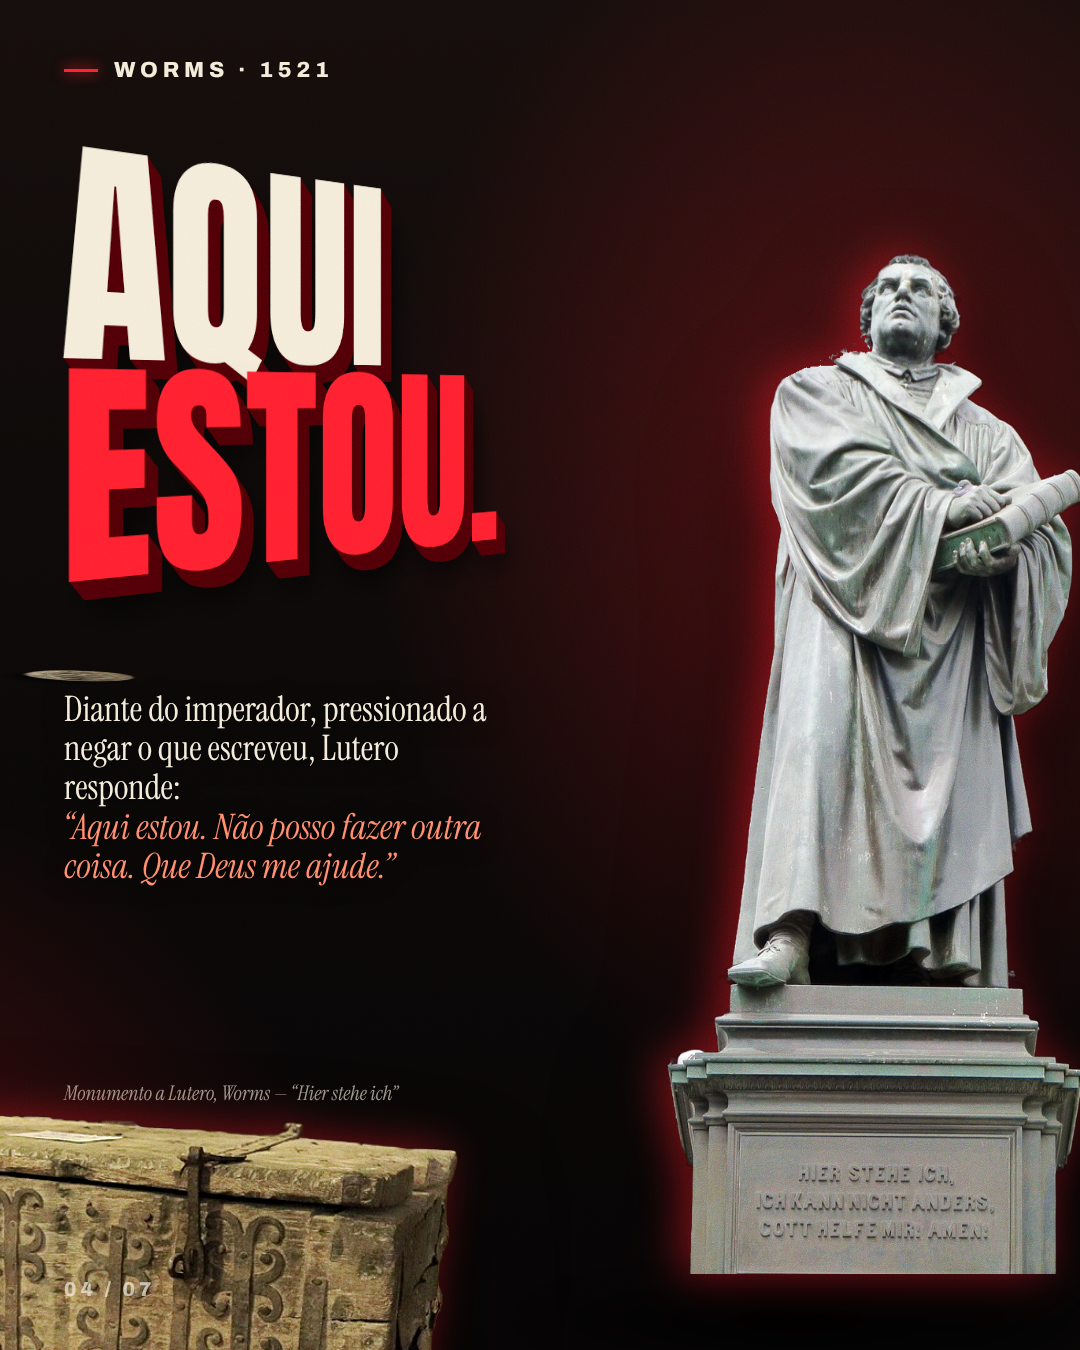
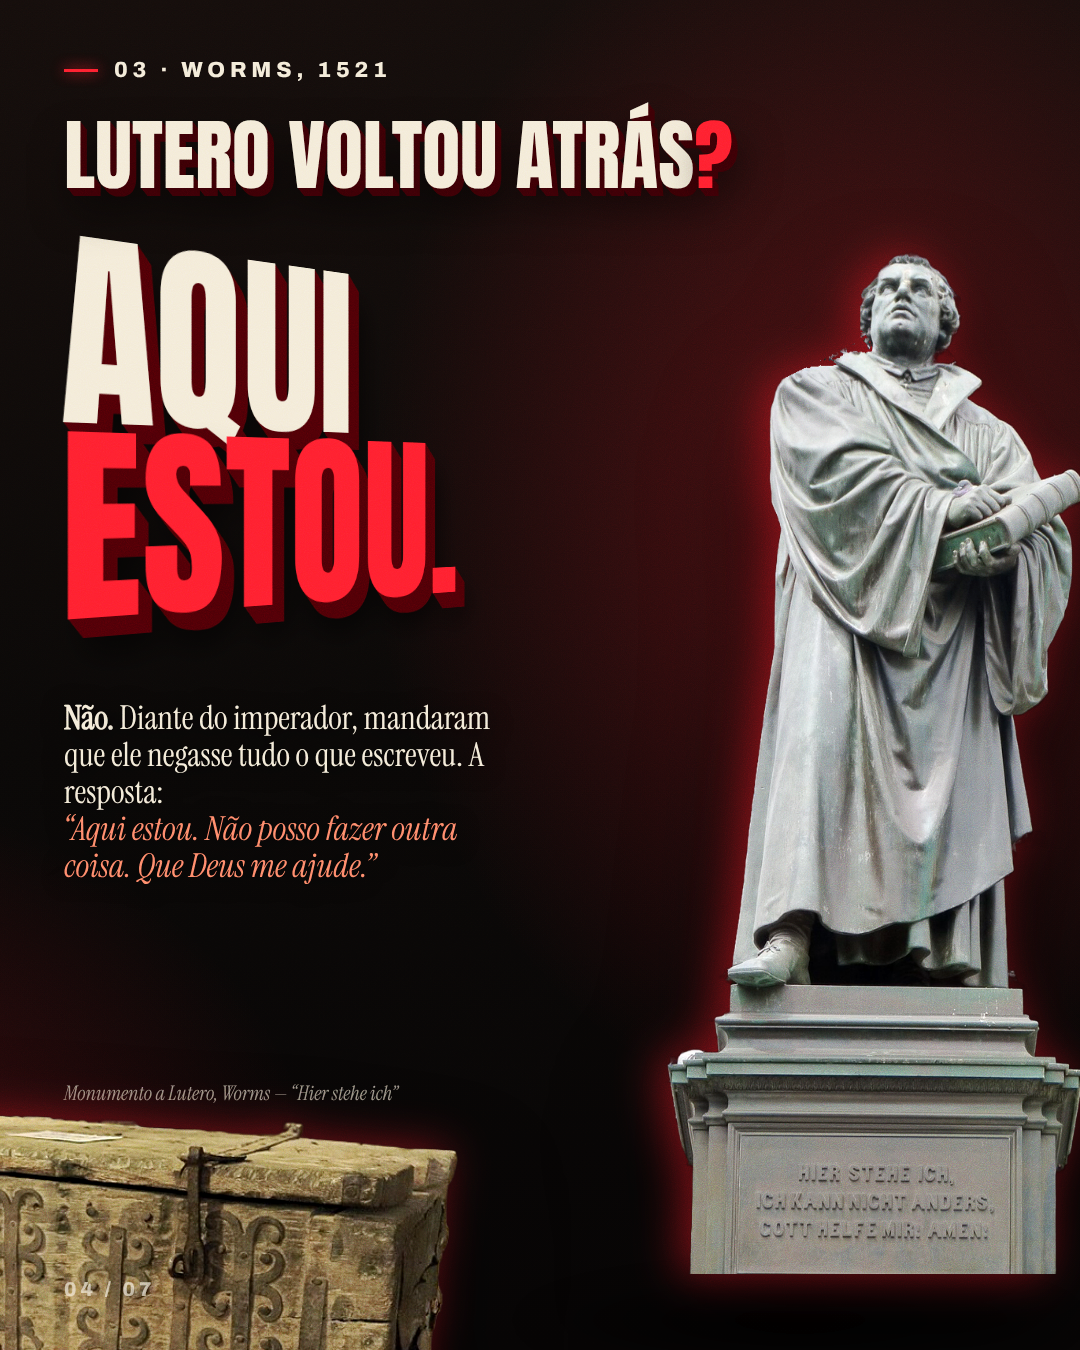
Carrossel da Reforma em formato de perguntas (O que foi? Por que aconteceu? ...)
Claude-Session: https://claude.ai/code/session_01SqBgzc59mWW4zSof96dTKN

Changed region(s): [[0.0306, 0.0311, 0.7028, 0.6533]]

diff --git a/carrossel-reforma/carrossel.html b/carrossel-reforma/carrossel.html
@@ -60,28 +60,28 @@ body{width:7560px;height:1350px;overflow:hidden}
 <img src="assets/logo.png" class="abs" style="left:930px;top:34px;width:104px;z-index:60;filter:drop-shadow(0 0 22px rgba(255,31,45,.7))">
 <div class="abs" style="left:0;top:140px;width:1080px;height:900px;perspective:1000px;perspective-origin:30% 30%;z-index:10">
   <div class="pres" style="position:absolute;left:40px;top:40px;transform:rotateY(24deg) rotateX(6deg);transform-origin:0 50%">
-    <div class="goth x3d" data-d="10" data-c="#5c0009" style="font-size:150px;line-height:.8;margin-left:12px">A</div>
-    <div class="anton x3d" data-d="26" data-c="#4d0007" style="font-size:330px;color:var(--red);line-height:.86">Refor</div>
-    <div class="anton x3d" data-d="26" data-c="#4d0007" style="font-size:330px;color:var(--red);line-height:.86">ma.</div>
+    <div class="anton x3d" data-d="10" data-c="#3a0006" style="font-size:118px;line-height:.95;margin-left:8px">O que foi a</div>
+    <div class="anton x3d" data-d="26" data-c="#4d0007" style="font-size:320px;color:var(--red);line-height:.86">Refor</div>
+    <div class="anton x3d" data-d="26" data-c="#4d0007" style="font-size:320px;color:var(--red);line-height:.86">ma?</div>
   </div>
 </div>
 <!-- Lutero (Cranach, 1528) atravessando 1→2 -->
 <div class="contact" style="left:520px;top:1250px;width:700px;height:120px;z-index:19"></div>
 <img src="assets/luther.png" class="photo lit" style="left:450px;top:440px;width:820px;z-index:20;-webkit-mask-image:linear-gradient(180deg,#000 78%,transparent 99%)">
-<div class="sticker" style="left:400px;top:170px;background:var(--paper);color:var(--ink);transform:rotate(6deg);font-size:58px;line-height:.9;text-align:center;z-index:66">509<br><span style="font-size:26px">anos</span></div>
+<div class="sticker" style="left:820px;top:160px;background:var(--paper);color:var(--ink);transform:rotate(6deg);font-size:58px;line-height:.9;text-align:center;z-index:66">509<br><span style="font-size:26px">anos</span></div>
 <div class="abs serif shadowtxt" style="left:64px;top:1010px;width:520px;font-size:44px;line-height:1.04;font-style:italic;z-index:30">
-  31 de outubro de 1517. Um monge, uma porta — e o mundo nunca mais foi o mesmo.</div>
+  509 anos depois, entenda em poucos slides o movimento que mudou a igreja — e o mundo.</div>
 <div class="sticker" style="left:64px;top:1236px;background:var(--red);color:#120303;font-size:30px;padding:12px 22px;border-radius:999px;z-index:66">Arrasta →</div>
 
 <!-- ================= 2 · WITTENBERG ================= -->
-<div class="lbl" style="left:1290px">Wittenberg · 1517</div>
+<div class="lbl" style="left:1290px">01 · Wittenberg, 1517</div>
 <div class="abs" style="left:1290px;top:130px;z-index:30">
-  <div class="anton" style="font-size:130px">Um monge.</div>
-  <div class="anton coral" style="font-size:130px">Uma porta.</div>
-  <div class="anton red" style="font-size:130px">95 teses.</div>
+  <div class="anton x3d" data-d="10" data-c="#3a0006" style="font-size:160px;line-height:.92">O que</div>
+  <div class="anton x3d" data-d="10" data-c="#3a0006" style="font-size:160px;line-height:.92">foi<span class="red">?</span></div>
+  <div class="anton coral" style="font-size:50px;margin-top:22px;line-height:1.05">Um monge. Uma porta.<br><span class="red">95 teses.</span></div>
 </div>
-<div class="abs serif shadowtxt" style="left:1290px;top:560px;width:430px;font-size:36px;line-height:1.12;z-index:30">
-  Martinho Lutero prega na porta da Igreja do Castelo suas <i>95 teses</i>, chamando a igreja a voltar para a Palavra.</div>
+<div class="abs serif shadowtxt" style="left:1290px;top:610px;width:430px;font-size:33px;line-height:1.13;z-index:30">
+  Um movimento cristão do século XVI que chamou a igreja <b class="coral">de volta para a Bíblia</b>. Começou em <b>31 de outubro de 1517</b>, quando o monge Martinho Lutero pregou 95 teses na porta da igreja de Wittenberg, na Alemanha.</div>
 <!-- a porta real (hoje em bronze, com as teses gravadas) atravessando 2→3 -->
 <div class="abs" style="left:1700px;top:330px;width:1000px;height:1100px;perspective:1500px;perspective-origin:0% 40%;z-index:22">
   <div class="contact" style="left:60px;top:930px;width:860px;height:110px"></div>
@@ -92,14 +92,14 @@ body{width:7560px;height:1350px;overflow:hidden}
 <div class="tape p" style="left:860px;top:1240px;width:470px;transform:rotate(-4deg)"><span id="tp1"></span></div>
 
 <!-- ================= 3 · INDULGÊNCIAS ================= -->
-<div class="lbl" style="left:2640px">O problema</div>
+<div class="lbl" style="left:2640px">02 · O estopim</div>
 <div class="abs" style="left:2640px;top:130px;width:560px;z-index:30">
-  <div class="anton" style="font-size:118px">Perdão</div>
-  <div class="anton" style="font-size:118px">à <span class="red">venda</span>?</div>
+  <div class="anton x3d" data-d="10" data-c="#3a0006" style="font-size:112px">Por que</div>
+  <div class="anton x3d" data-d="10" data-c="#3a0006" style="font-size:112px">aconteceu<span class="red">?</span></div>
 </div>
-<div class="abs serif shadowtxt" style="left:2640px;top:380px;width:540px;font-size:33px;line-height:1.12;z-index:30">
-  Vendiam-se <b class="coral">indulgências</b>: papéis que prometiam aliviar a pena dos pecados em troca de dinheiro.</div>
-<div class="abs" style="left:2640px;top:540px;width:540px;z-index:30;border-left:8px solid var(--red);padding:8px 0 8px 26px">
+<div class="abs serif shadowtxt" style="left:2640px;top:375px;width:540px;font-size:31px;line-height:1.12;z-index:30">
+  Porque se vendia o perdão. As <b class="coral">indulgências</b> eram papéis que prometiam aliviar a pena dos pecados em troca de dinheiro.</div>
+<div class="abs" style="left:2640px;top:555px;width:540px;z-index:30;border-left:8px solid var(--red);padding:8px 0 8px 26px">
   <div class="serif shadowtxt" style="font-size:38px;font-style:italic;line-height:1.06">“Assim que a moeda no cofre tilinta, a alma do purgatório salta.”</div>
   <div style="font-size:16px;font-weight:800;letter-spacing:.18em;margin-top:12px;color:var(--coral);text-transform:uppercase">Slogan atribuído a Johann Tetzel</div>
 </div>
@@ -108,42 +108,43 @@ body{width:7560px;height:1350px;overflow:hidden}
   <img src="assets/coin2.png" class="photo" style="left:120px;top:150px;width:240px;transform:rotateX(58deg) rotateZ(-30deg);filter:brightness(1.05) sepia(.25) drop-shadow(0 30px 20px rgba(0,0,0,.7))">
   <img src="assets/coin1.png" class="photo" style="left:350px;top:60px;width:200px;transform:rotateY(62deg) rotateZ(12deg);filter:brightness(1.05) sepia(.25) blur(.6px) drop-shadow(0 30px 20px rgba(0,0,0,.7))">
   <img src="assets/coin2.png" class="photo" style="left:420px;top:250px;width:200px;transform:rotateX(-40deg) rotateY(30deg);filter:brightness(1.1) sepia(.25) drop-shadow(0 30px 20px rgba(0,0,0,.7))">
-  <img src="assets/coin1.png" class="photo" style="left:640px;top:-20px;width:110px;transform:rotateX(70deg) rotateZ(50deg);filter:sepia(.25) blur(1.4px) drop-shadow(0 20px 14px rgba(0,0,0,.7))">
+  <img src="assets/coin1.png" class="photo" style="left:500px;top:-10px;width:100px;transform:rotateX(70deg) rotateZ(50deg);filter:sepia(.25) blur(1.4px) drop-shadow(0 20px 14px rgba(0,0,0,.7))">
 </div>
 <div class="contact" style="left:2560px;top:1300px;width:1200px;height:110px;z-index:31"></div>
 <img src="assets/tetzel.png" class="photo lit" style="left:2480px;top:800px;width:1220px;z-index:32">
 <div class="pg" style="left:2640px;bottom:auto;top:1290px;color:#fff;z-index:40">03 / 07</div>
 
 <!-- ================= 4 · WORMS ================= -->
-<div class="lbl" style="left:3304px">Worms · 1521</div>
-<div class="abs" style="left:3240px;top:120px;width:900px;height:560px;perspective:900px;perspective-origin:20% 50%;z-index:20">
+<div class="lbl" style="left:3304px">03 · Worms, 1521</div>
+<div class="abs anton x3d" data-d="8" data-c="#3a0006" style="left:3304px;top:118px;font-size:78px;z-index:30">Lutero voltou atrás<span class="red">?</span></div>
+<div class="abs" style="left:3240px;top:210px;width:900px;height:560px;perspective:900px;perspective-origin:20% 50%;z-index:20">
   <div class="pres" style="position:absolute;left:60px;top:20px;transform:rotateY(28deg);transform-origin:0 50%">
-    <div class="anton x3d" data-d="20" data-c="#4d0007" style="font-size:250px;line-height:.9">Aqui</div>
-    <div class="anton x3d red" data-d="20" data-c="#4d0007" style="font-size:250px;line-height:.9">estou.</div>
+    <div class="anton x3d" data-d="20" data-c="#4d0007" style="font-size:220px;line-height:.9">Aqui</div>
+    <div class="anton x3d red" data-d="20" data-c="#4d0007" style="font-size:220px;line-height:.9">estou.</div>
   </div>
 </div>
 <!-- estátua real de Lutero em Worms, à frente do texto -->
 <div class="contact" style="left:3760px;top:1270px;width:560px;height:100px;z-index:24"></div>
 <img src="assets/worms.png" class="photo lit" style="left:3720px;top:250px;width:800px;z-index:25">
-<div class="abs serif shadowtxt" style="left:3304px;top:690px;width:440px;font-size:35px;line-height:1.12;z-index:30">
-  Diante do imperador, pressionado a negar o que escreveu, Lutero responde:<br><i class="coral">“Aqui estou. Não posso fazer outra coisa. Que Deus me ajude.”</i></div>
+<div class="abs serif shadowtxt" style="left:3304px;top:700px;width:440px;font-size:33px;line-height:1.12;z-index:30">
+  <b>Não.</b> Diante do imperador, mandaram que ele negasse tudo o que escreveu. A resposta:<br><i class="coral">“Aqui estou. Não posso fazer outra coisa. Que Deus me ajude.”</i></div>
 <div class="abs serif" style="left:3304px;top:1080px;width:400px;font-size:20px;opacity:.6;z-index:30;font-style:italic">Monumento a Lutero, Worms — “Hier stehe ich”</div>
 <div class="pg" style="left:3304px">04 / 07</div>
 
 <!-- ================= 5 · 5 SOLAS ================= -->
-<div class="lbl" style="left:4570px">O coração da Reforma</div>
+<div class="lbl" style="left:4570px">04 · O coração da Reforma</div>
 <div class="abs" style="left:4570px;top:120px;z-index:30">
-  <span class="anton" style="font-size:170px">Os <span class="red">5</span></span>
-  <span class="goth coral" style="font-size:150px;margin-left:14px">Solas</span>
+  <div class="anton x3d" data-d="10" data-c="#3a0006" style="font-size:96px">O que ela ensinou<span class="red">?</span></div>
+  <div style="margin-top:4px"><span class="anton" style="font-size:66px">Os <span class="red">5</span></span> <span class="goth coral" style="font-size:66px">Solas</span></div>
 </div>
-<div class="abs" style="left:4560px;top:330px;width:700px;height:520px;perspective:900px;perspective-origin:50% 0%;z-index:30">
+<div class="abs" style="left:4560px;top:360px;width:700px;height:520px;perspective:900px;perspective-origin:50% 0%;z-index:30">
   <div class="pres" style="position:absolute;left:0;right:0;top:0;transform:rotateX(26deg);transform-origin:50% 0">
     <div id="solas"></div>
   </div>
 </div>
 <!-- Bíblia de Lutero, 1534 (exemplar real) atravessando 5→6 -->
 <div class="contact" style="left:4760px;top:1290px;width:1000px;height:120px;z-index:33"></div>
-<img src="assets/bible2.png" class="photo lit" style="left:4700px;top:830px;width:1060px;transform:rotate(-5deg);z-index:34">
+<img src="assets/bible2.png" class="photo lit" style="left:4700px;top:880px;width:1060px;transform:rotate(-5deg);z-index:34">
 <div class="abs serif" style="left:4570px;top:1240px;width:300px;font-size:19px;opacity:.65;z-index:40;font-style:italic">Bíblia de Lutero, 1534 — a Palavra na língua do povo</div>
 <div class="pg" style="left:4570px;bottom:auto;top:58px;left:5250px">05/07</div>
 
@@ -152,27 +153,29 @@ body{width:7560px;height:1350px;overflow:hidden}
 <div class="abs" style="left:5750px;top:-40px;width:1100px;height:1400px;perspective:1400px;z-index:5">
   <img src="assets/genesis1534.jpg" class="photo" style="left:120px;top:60px;width:820px;transform:rotateY(-32deg) rotateZ(4deg);opacity:.14;filter:sepia(.5) contrast(1.2);mix-blend-mode:screen;-webkit-mask-image:radial-gradient(closest-side,#000 20%,transparent 100%)">
 </div>
-<div class="lbl" style="left:5464px">Efésios 2.8</div>
-<div class="abs serif shadowtxt" style="left:5464px;top:140px;width:940px;font-size:60px;line-height:1.03;z-index:30">
+<div class="lbl" style="left:5464px">05 · Efésios 2.8</div>
+<div class="abs anton x3d" data-d="8" data-c="#3a0006" style="left:5464px;top:118px;font-size:82px;z-index:30">O que é a Reforma hoje<span class="red">?</span></div>
+<div class="abs serif shadowtxt" style="left:5464px;top:240px;width:940px;font-size:48px;line-height:1.05;z-index:30">
   “Porque <i class="coral">pela graça</i> sois salvos, mediante a fé; e isto não vem de vós; <i class="red">é dom de Deus</i>.”</div>
-<div class="abs" style="left:5400px;top:430px;width:1080px;height:700px;perspective:1000px;perspective-origin:0% 40%;z-index:36">
+<div class="abs" style="left:5400px;top:470px;width:1080px;height:700px;perspective:1000px;perspective-origin:0% 40%;z-index:36">
   <div class="pres" style="position:absolute;left:150px;top:0;text-align:left;transform:rotateY(22deg) scale(1.12);transform-origin:0 0">
     <div class="anton x3d" data-d="22" data-c="#5c1a0c" style="font-size:240px;color:var(--coral)">Graça</div>
     <div class="anton" style="font-size:80px;margin:-4px 0 6px 8px">gera ↓</div>
     <div class="anton x3d red" data-d="22" data-c="#4d0007" style="font-size:240px">Gratidão</div>
   </div>
 </div>
-<div class="abs serif shadowtxt" style="left:5900px;top:1060px;width:520px;font-size:34px;line-height:1.1;font-style:italic;z-index:40;text-align:right">Por isso somos a <b class="red" style="font-style:normal">Igreja da Gratidão</b>: quem recebe graça, vive grato.</div>
+<div class="abs serif shadowtxt" style="left:5860px;top:1040px;width:560px;font-size:33px;line-height:1.1;font-style:italic;z-index:40;text-align:right">É viver pela graça. E quem recebe graça vive grato — por isso somos a <b class="red" style="font-style:normal">Igreja da Gratidão</b>.</div>
 
 <div class="tape r" style="left:6080px;top:1250px;width:470px;transform:rotate(5deg)"><span id="tp2"></span></div>
 
 <!-- ================= 7 · CTA ================= -->
-<div class="lbl" style="left:6544px">Semper reformanda</div>
-<div class="abs" style="left:6544px;top:140px;z-index:30">
-  <div class="anton" style="font-size:150px">A Reforma</div>
-  <div class="anton coral" style="font-size:150px">não acabou.</div>
+<div class="lbl" style="left:6544px">06 · Semper reformanda</div>
+<div class="abs anton x3d" data-d="8" data-c="#3a0006" style="left:6544px;top:118px;font-size:82px;z-index:30">E pra você<span class="red">?</span></div>
+<div class="abs" style="left:6544px;top:225px;z-index:30">
+  <div class="anton" style="font-size:132px">A Reforma</div>
+  <div class="anton coral" style="font-size:132px">não acabou.</div>
 </div>
-<div class="abs serif shadowtxt" style="left:6544px;top:490px;width:470px;font-size:42px;line-height:1.08;z-index:30;font-style:italic">
+<div class="abs serif shadowtxt" style="left:6544px;top:530px;width:470px;font-size:40px;line-height:1.08;z-index:30;font-style:italic">
   Ela continua toda vez que alguém abre a Bíblia, crê na graça e vive <span class="red">grato</span>.</div>
 <div class="abs" style="left:7040px;top:420px;width:520px;height:620px;z-index:20">
   <div style="position:absolute;inset:-60px;background:radial-gradient(closest-side,rgba(255,31,45,.55),transparent);filter:blur(30px)"></div>
